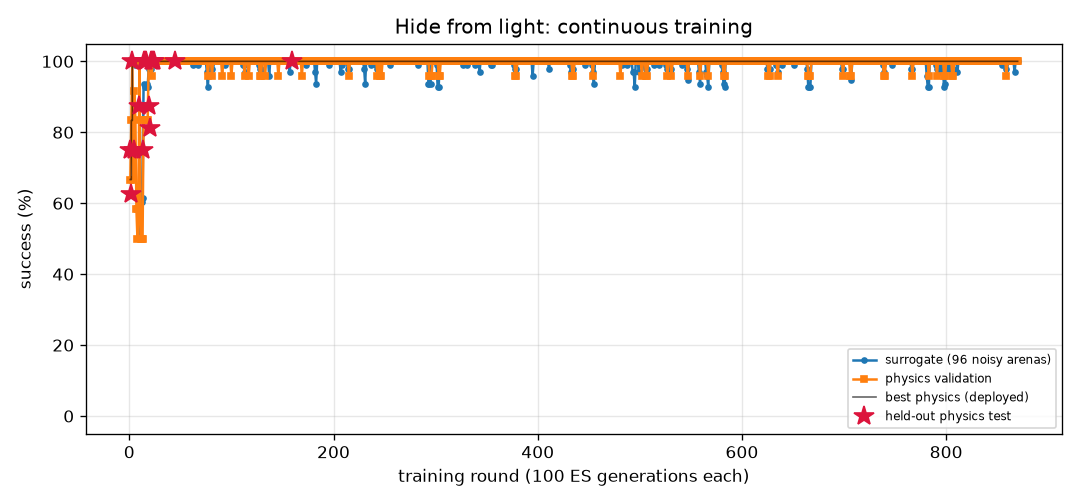
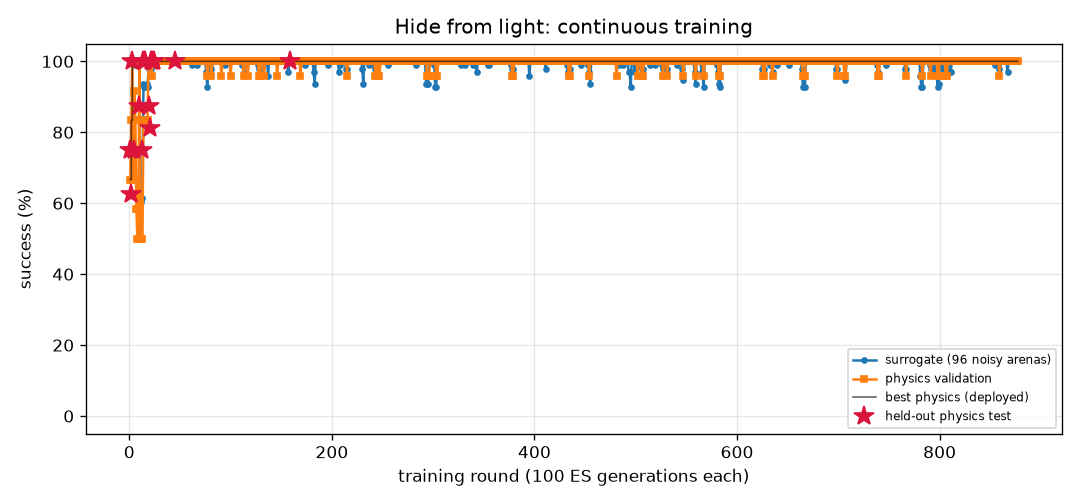
FlyLab: continuous training progress
- walk_forward: optimal, physics val 100% of 24, round 556
- turn: optimal, physics val 100% of 24, round 1392
- goto: optimal, physics val 100% of 24, round 426
- odor_seek: optimal, physics val 100% of 24, round 346
- odor_avoid: optimal, physics val 100% of 24, round 1165
- light_seek: optimal, physics val 100% of 24, round 628
- light_avoid: optimal, physics val 100% of 24, round 877

diff --git a/projects/09_flylab/training/light_avoid/REPORT.md b/projects/09_flylab/training/light_avoid/REPORT.md
@@ -1,14 +1,14 @@
 # Hide from light (`light_avoid`) — training report
 
-*Auto-generated by `train_brains.py`, last updated 2026-11-26T15:20:05.*
+*Auto-generated by `train_brains.py`, last updated 2026-11-26T18:46:55.*
 
 ![curve](curve.png)
 
 | | |
 |---|---|
-| rounds | 870 |
-| ES generations | 87000 |
-| physics runs | 21152 |
+| rounds | 877 |
+| ES generations | 87700 |
+| physics runs | 21320 |
 | status | **optimal** |
 | best brain | round 159: physics validation **100%** on 24 arenas, surrogate 100% |
 | held-out physics test | **100%** on 32 unseen arenas (95% CI 89%-100%) (errors: [14.4, 56.1, 58.0, 57.9, 57.5, 14.0, 14.4, 56.6, 56.8, 13.3, 14.1, 56.6, 57.6, 13.1, 57.3, 55.9, 57.2, 55.0, 55.2, 53.9, 55.2, 12.4, 53.8, 53.7, 14.1, 13.7, 55.0, 57.8, 56.2, 13.1, 52.8, 56.5]) |
@@ -17,13 +17,6 @@ Physics error per arena: mm gained away from source (> 6 without first approachi
 
 | round | level | gens | sigma | surrogate | physics val | val errors | test | note |
 |---:|---:|---:|---:|---:|---:|---|---:|---|
-| 831 | 3 | 83100 | 0.024 | 100% | 100% | [53.7, 58.9, 58.5, 54.5, 59.6, 55.2, 56.5, 14.5, 55.4, 13.4, 58.0, 59.4, 14.4, 58.1, 58.5, 55.4, 14.2, 59.7, 59.1, 14.4, 53.6, 58.1, 56.7, 59.1] |  | restart from best |
-| 832 | 3 | 83200 | 0.024 | 100% | 100% | [42.1, 41.8, 41.4, 43.0, 44.8, 44.1, 39.3, 14.5, 42.5, 13.3, 44.9, 45.0, 14.3, 44.8, 42.5, 43.0, 14.2, 45.4, 42.5, 14.4, 42.4, 43.4, 40.8, 45.5] |  |  |
-| 833 | 3 | 83300 | 0.024 | 100% | 100% | [56.1, 58.4, 58.1, 56.1, 58.2, 56.8, 56.7, 14.5, 53.3, 13.4, 57.6, 58.0, 14.4, 57.2, 58.3, 56.9, 14.2, 58.6, 58.7, 14.4, 55.0, 57.8, 56.8, 57.5] |  |  |
-| 834 | 3 | 83400 | 0.024 | 100% | 100% | [55.7, 60.7, 60.4, 57.1, 60.5, 57.5, 59.1, 14.5, 56.5, 13.4, 58.9, 60.4, 14.4, 59.5, 60.6, 56.1, 14.2, 61.0, 61.0, 14.4, 54.2, 59.9, 59.0, 59.8] |  |  |
-| 835 | 3 | 83500 | 0.024 | 100% | 100% | [52.3, 57.5, 57.2, 53.2, 58.1, 53.7, 55.4, 14.5, 50.7, 13.6, 55.8, 58.0, 14.4, 56.8, 57.3, 53.4, 14.2, 58.4, 57.6, 14.4, 54.6, 56.2, 54.9, 57.5] |  | restart from best |
-| 836 | 3 | 83600 | 0.024 | 100% | 100% | [37.7, 37.3, 37.5, 40.2, 40.7, 38.6, 35.4, 14.5, 38.6, 13.5, 40.6, 40.8, 14.3, 40.3, 37.0, 39.3, 14.2, 40.4, 37.7, 14.4, 40.2, 41.4, 35.5, 40.9] |  |  |
-| 837 | 3 | 83700 | 0.024 | 100% | 100% | [42.8, 43.9, 42.5, 44.1, 46.8, 44.0, 41.7, 14.5, 44.5, 13.3, 46.7, 47.0, 14.4, 46.7, 43.8, 44.8, 14.2, 46.9, 43.7, 14.4, 43.4, 47.3, 41.9, 47.0] |  |  |
 | 838 | 3 | 83800 | 0.024 | 100% | 100% | [43.7, 42.4, 42.1, 44.9, 45.0, 43.0, 40.0, 14.5, 43.1, 13.3, 47.9, 44.9, 14.4, 46.3, 44.2, 43.8, 14.2, 46.9, 42.7, 14.4, 42.8, 47.5, 40.6, 45.9] |  |  |
 | 839 | 3 | 83900 | 0.024 | 100% | 100% | [45.1, 46.0, 45.6, 46.6, 49.1, 46.6, 43.5, 14.5, 49.2, 13.5, 50.6, 49.3, 14.4, 49.5, 45.8, 47.3, 14.2, 49.4, 46.7, 14.4, 47.0, 50.4, 43.9, 49.5] |  | restart from best |
 | 840 | 3 | 84000 | 0.024 | 100% | 100% | [53.0, 55.7, 55.7, 53.3, 53.3, 53.6, 55.1, 14.5, 48.8, 13.3, 53.6, 53.0, 14.4, 55.1, 55.8, 53.6, 14.2, 54.0, 56.0, 14.4, 52.3, 53.5, 54.8, 52.1] |  |  |
@@ -57,3 +50,10 @@ Physics error per arena: mm gained away from source (> 6 without first approachi
 | 868 | 3 | 86800 | 0.024 | 100% | 100% | [55.5, 56.6, 56.5, 54.1, 56.5, 52.7, 55.1, 14.5, 53.0, 13.4, 55.4, 56.4, 14.4, 54.8, 56.5, 54.6, 14.2, 56.9, 56.8, 14.4, 54.2, 55.1, 54.7, 55.8] |  |  |
 | 869 | 3 | 86900 | 0.024 | 100% | 100% | [36.1, 36.3, 35.0, 38.0, 38.2, 37.7, 33.9, 14.5, 37.6, 13.4, 38.9, 38.0, 14.4, 38.9, 35.6, 38.8, 14.2, 39.7, 37.0, 14.4, 38.4, 40.1, 33.4, 38.9] |  |  |
 | 870 | 3 | 87000 | 0.024 | 100% | 100% | [46.3, 47.7, 47.4, 48.4, 50.6, 47.4, 45.4, 14.5, 41.6, 13.4, 51.5, 51.0, 14.4, 50.5, 47.3, 49.4, 14.2, 51.1, 47.2, 14.4, 48.1, 51.7, 45.9, 51.1] |  |  |
+| 871 | 3 | 87100 | 0.024 | 100% | 100% | [39.0, 39.7, 38.9, 39.6, 42.5, 39.8, 36.4, 14.5, 12.9, 13.4, 41.3, 42.3, 14.4, 41.6, 39.2, 39.0, 14.2, 42.2, 39.4, 14.4, 38.8, 42.0, 36.9, 42.5] |  | restart from best |
+| 872 | 3 | 87200 | 0.024 | 100% | 100% | [51.7, 57.1, 56.8, 52.7, 57.5, 53.4, 55.1, 14.5, 53.3, 13.1, 56.5, 57.4, 14.4, 55.6, 56.8, 55.2, 14.2, 57.8, 57.2, 14.4, 54.4, 56.4, 54.8, 57.0] |  |  |
+| 873 | 3 | 87300 | 0.024 | 100% | 100% | [57.5, 61.0, 60.7, 57.2, 60.1, 57.7, 59.6, 14.5, 56.5, 13.4, 59.9, 59.8, 14.4, 57.3, 60.9, 57.0, 14.2, 60.7, 61.2, 14.4, 58.3, 60.2, 59.5, 59.2] |  |  |
+| 874 | 3 | 87400 | 0.024 | 100% | 100% | [58.2, 61.1, 61.0, 58.5, 59.7, 58.6, 60.1, 14.5, 10.5, 13.4, 60.4, 59.5, 14.4, 57.6, 61.1, 57.2, 14.2, 60.5, 61.3, 14.4, 58.8, 60.2, 59.8, 58.7] |  |  |
+| 875 | 3 | 87500 | 0.024 | 100% | 100% | [57.4, 61.2, 61.0, 58.2, 59.8, 58.7, 60.0, 14.5, 42.9, 13.5, 60.0, 59.7, 14.4, 57.8, 61.1, 57.0, 14.2, 60.5, 61.4, 14.4, 57.8, 60.3, 59.7, 59.0] |  | restart from best |
+| 876 | 3 | 87600 | 0.024 | 100% | 100% | [52.5, 56.3, 55.9, 54.4, 58.1, 54.2, 54.1, 14.5, 54.6, 13.3, 58.0, 58.2, 14.4, 56.2, 56.4, 52.9, 14.2, 58.3, 56.6, 14.4, 51.4, 57.9, 54.4, 57.8] |  |  |
+| 877 | 3 | 87700 | 0.024 | 100% | 100% | [42.8, 41.6, 43.3, 44.2, 44.9, 43.5, 38.9, 14.5, 43.7, 13.1, 45.0, 44.9, 14.4, 46.5, 42.4, 43.4, 14.2, 45.1, 43.6, 14.4, 42.2, 45.5, 39.1, 46.7] |  |  |

diff --git a/projects/09_flylab/training/odor_avoid/REPORT.md b/projects/09_flylab/training/odor_avoid/REPORT.md
@@ -1,14 +1,14 @@
 # Escape a bad smell (`odor_avoid`) — training report
 
-*Auto-generated by `train_brains.py`, last updated 2026-11-26T17:46:12.*
+*Auto-generated by `train_brains.py`, last updated 2026-11-26T18:38:29.*
 
 ![curve](curve.png)
 
 | | |
 |---|---|
-| rounds | 1159 |
-| ES generations | 115900 |
-| physics runs | 25122 |
+| rounds | 1165 |
+| ES generations | 116500 |
+| physics runs | 25266 |
 | status | **optimal** |
 | best brain | round 373: physics validation **100%** on 24 arenas, surrogate 97% |
 | held-out physics test | **97%** on 32 unseen arenas (95% CI 84%-99%) (errors: [62.0, 57.4, 62.6, 61.9, 59.0, 61.6, 56.5, 60.7, 31.7, 60.9, 63.1, 57.1, 61.1, 62.1, 61.5, 60.2, 62.2, 55.2, 62.1, 54.2, 61.3, 62.0, 58.0, 61.9, 59.8, 56.5, 56.3, 56.4, 56.3, 57.7, 61.9, 32.4]) |
@@ -17,12 +17,6 @@ Physics error per arena: mm gained away from source (> 6 without first approachi
 
 | round | level | gens | sigma | surrogate | physics val | val errors | test | note |
 |---:|---:|---:|---:|---:|---:|---|---:|---|
-| 1120 | 3 | 112000 | 0.029 | 97% | 100% | [61.3, 58.5, 56.1, 59.0, 61.2, 61.6, 60.1, 29.6, 61.4, 60.8, 61.2, 60.9, 54.9, 57.0, 51.7, 60.7, 61.7, 60.8, 55.0, 56.7, 62.0, 61.6, 58.9, 47.4] |  |  |
-| 1121 | 3 | 112100 | 0.026 | 98% | 96% | [52.4, 51.3, 51.7, 51.9, 50.4, 52.6, 52.4, 52.5, 52.1, 40.0, 23.1, 52.7, 44.2, 50.7, 13.9, 46.7, 52.6, 42.3, 46.4, 50.0, 53.0, 53.5, 52.3, 53.9] |  | restart from best |
-| 1122 | 3 | 112200 | 0.026 | 96% | 96% | [62.3, 59.7, 57.7, 60.8, 61.8, 62.2, 62.0, 59.5, 62.0, 61.2, 61.4, 61.7, 53.8, 58.4, 34.1, 61.9, 62.0, 61.6, 55.0, 59.6, 62.1, 61.8, 60.3, 55.3] |  |  |
-| 1123 | 3 | 112300 | 0.026 | 95% | 100% | [61.1, 59.3, 57.9, 59.3, 60.8, 61.3, 61.1, 38.1, 60.9, 39.0, 39.3, 59.6, 50.5, 56.9, 38.9, 60.3, 59.4, 60.0, 52.0, 58.4, 59.3, 24.6, 58.3, 19.4] |  |  |
-| 1124 | 3 | 112400 | 0.027 | 95% | 96% | [62.5, 56.7, 56.7, 56.4, 60.3, 61.8, 60.1, 61.9, 60.6, 59.3, 58.9, 60.3, 49.5, 53.2, 38.0, 61.8, 59.3, 61.0, 51.4, 58.3, 60.3, 62.4, 59.1, 62.0] |  |  |
-| 1125 | 3 | 112500 | 0.027 | 94% | 96% | [62.7, 60.7, 57.7, 61.0, 61.7, 60.3, 60.4, 62.1, 61.8, 58.2, 39.8, 59.8, 47.4, 54.7, 2.0, 61.8, 60.6, 59.5, 54.3, 57.2, 60.4, 62.5, 59.9, 62.8] |  | restart from best |
 | 1126 | 3 | 112600 | 0.026 | 96% | 100% | [63.3, 58.4, 56.7, 59.0, 60.6, 62.0, 62.2, 50.1, 60.3, 56.1, 61.6, 61.7, 52.9, 55.3, 42.0, 62.3, 61.9, 62.2, 52.1, 55.9, 61.6, 58.8, 58.1, 56.1] |  |  |
 | 1127 | 3 | 112700 | 0.026 | 94% | 100% | [63.3, 60.9, 56.1, 60.0, 61.9, 62.2, 60.9, 62.9, 61.6, 61.9, 60.7, 62.1, 51.5, 53.9, 45.4, 62.0, 62.0, 61.4, 55.2, 60.1, 62.2, 63.3, 59.9, 63.3] |  |  |
 | 1128 | 3 | 112800 | 0.028 | 95% | 96% | [60.4, 59.9, 56.1, 59.9, 62.1, 62.4, 61.3, 62.8, 61.3, 62.2, 60.5, 61.3, 52.8, 56.0, 36.2, 62.0, 61.5, 62.1, 52.8, 59.6, 61.5, 62.8, 57.0, 62.8] |  |  |
@@ -57,3 +51,9 @@ Physics error per arena: mm gained away from source (> 6 without first approachi
 | 1157 | 3 | 115700 | 0.026 | 96% | 100% | [60.3, 55.5, 55.7, 57.5, 52.9, 56.3, 61.0, 58.8, 61.1, 58.4, 20.1, 61.0, 15.9, 51.6, 42.9, 60.9, 60.7, 59.9, 47.8, 58.4, 61.2, 60.8, 58.5, 60.9] |  | restart from best |
 | 1158 | 3 | 115800 | 0.026 | 97% | 96% | [63.6, 61.4, 56.7, 61.1, 62.7, 62.7, 62.7, 61.4, 59.8, 62.3, 62.4, 62.2, 53.0, 56.5, 21.6, 61.9, 62.0, 61.8, 54.8, 58.2, 61.9, 62.9, 58.4, 61.3] |  |  |
 | 1159 | 3 | 115900 | 0.026 | 97% | 92% | [63.4, 61.1, 56.7, 59.4, 62.5, 62.3, 62.0, 59.9, 60.8, 62.3, 62.3, 62.1, 53.5, 56.7, 48.3, 62.0, 62.2, 62.2, 50.5, 56.4, 62.2, 62.4, 59.0, 62.9] |  |  |
+| 1160 | 3 | 116000 | 0.026 | 95% | 96% | [63.2, 58.2, 56.7, 61.1, 62.1, 61.8, 61.6, 35.0, 61.5, 60.7, 62.3, 62.4, 53.6, 56.7, 43.5, 62.1, 62.3, 61.1, 51.4, 56.0, 62.4, 62.1, 58.8, 60.0] |  |  |
+| 1161 | 3 | 116100 | 0.027 | 96% | 96% | [63.0, 59.2, 56.6, 57.9, 62.4, 61.7, 61.2, 61.1, 60.5, 61.3, 62.5, 61.5, 54.4, 56.4, 52.1, 62.3, 62.4, 61.1, 54.1, 56.6, 61.8, 62.1, 57.6, 62.1] |  | restart from best |
+| 1162 | 3 | 116200 | 0.026 | 97% | 96% | [62.8, 59.8, 56.4, 61.0, 61.5, 62.3, 61.7, 23.0, 61.5, 45.2, 35.8, 61.7, 51.3, 55.3, 14.5, 60.8, 62.0, 61.7, 55.1, 57.3, 62.0, 47.0, 59.6, 42.0] |  |  |
+| 1163 | 3 | 116300 | 0.026 | 95% | 100% | [62.0, 60.2, 57.9, 59.4, 62.1, 61.7, 60.4, 43.2, 60.9, 61.2, 61.6, 61.5, 54.6, 58.1, 51.7, 61.5, 61.7, 61.3, 54.5, 59.2, 61.5, 61.5, 59.5, 60.8] |  |  |
+| 1164 | 3 | 116400 | 0.027 | 94% | 96% | [60.1, 58.1, 55.5, 58.6, 60.4, 60.7, 61.0, 59.7, 60.4, 60.1, 39.1, 60.8, 45.1, 52.9, 28.4, 61.3, 60.5, 60.5, 48.9, 54.0, 60.5, 60.7, 57.2, 60.0] |  |  |
+| 1165 | 3 | 116500 | 0.028 | 97% | 92% | [62.8, 59.3, 57.6, 60.2, 60.8, 62.1, 61.7, 59.7, 59.2, 60.3, 61.8, 61.0, 49.9, 57.7, 44.8, 62.0, 61.6, 61.9, 54.9, 59.4, 61.4, 61.2, 60.0, 59.0] |  | restart from best |

diff --git a/projects/09_flylab/training/TRAINING.md b/projects/09_flylab/training/TRAINING.md
@@ -1,6 +1,6 @@
 # FlyLab brains — continuous training log
 
-*Auto-generated by `train_brains.py`, last updated 2026-11-26T17:46:12.*
+*Auto-generated by `train_brains.py`, last updated 2026-11-26T18:46:55.*
 
 Every skill has its own brain and its own training process: surrogate ES rounds, physics validation in MuJoCo, keep-the-best selection, and a held-out physics test that is never used for selection. See each skill's report for its full round-by-round history. Mastery is progressive: passing a level (100% physics validation, >=95% surrogate) doubles the validation and test arena sets; a brain is **optimal** once it holds up at level 3 (>=95% of 24 validation arenas) AND scores >=90% on the 32 held-out test arenas. Test columns show 95% Wilson confidence intervals.
 
@@ -10,6 +10,6 @@ Every skill has its own brain and its own training process: surrogate ES rounds,
 | [Turn in place](turn/REPORT.md) | 1392 | 139200 | 33654 | 100% | 100% of 24 | 97% of 32 (CI 84-99%) | **optimal** |
 | [Go to a location](goto/REPORT.md) | 426 | 42600 | 10174 | 100% | 100% of 24 | 100% of 32 (CI 89-100%) | **optimal** |
 | [Find food by smell](odor_seek/REPORT.md) | 346 | 34600 | 7798 | 100% | 100% of 24 | 100% of 32 (CI 89-100%) | **optimal** |
-| [Escape a bad smell](odor_avoid/REPORT.md) | 1159 | 115900 | 25122 | 97% | 100% of 24 | 97% of 32 (CI 84-99%) | **optimal** |
+| [Escape a bad smell](odor_avoid/REPORT.md) | 1165 | 116500 | 25266 | 97% | 100% of 24 | 97% of 32 (CI 84-99%) | **optimal** |
 | [Walk toward light](light_seek/REPORT.md) | 628 | 62800 | 11952 | 100% | 100% of 24 | 100% of 32 (CI 89-100%) | **optimal** |
-| [Hide from light](light_avoid/REPORT.md) | 870 | 87000 | 21152 | 100% | 100% of 24 | 100% of 32 (CI 89-100%) | **optimal** |
+| [Hide from light](light_avoid/REPORT.md) | 877 | 87700 | 21320 | 100% | 100% of 24 | 100% of 32 (CI 89-100%) | **optimal** |
